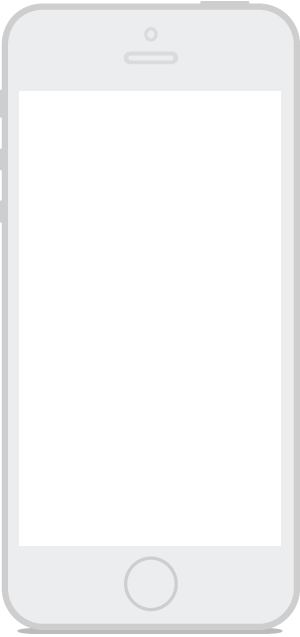
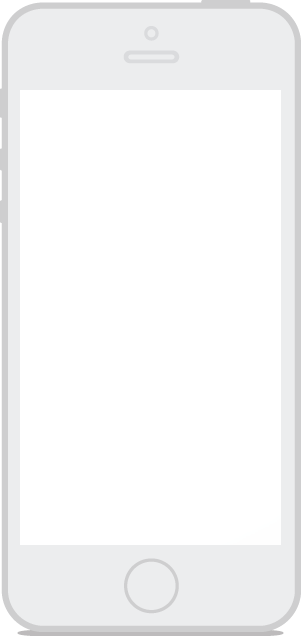
frame and all

Changed region(s): [[0.03, 0.9261, 0.99, 1.0], [0.45, 0.8664, 0.57, 0.8962], [0.99, 0.9261, 1.0, 0.956]]

diff --git a/css/style.less b/css/style.less
@@ -1,3 +1,4 @@
+
 /*IMPORT FONTS*/
 
 @import url(http://fonts.googleapis.com/css?family=Source+Sans+Pro:300,700);
@@ -78,28 +79,13 @@ h3, .h3 {
 	position: absolute;
 	display: block;
 	height: 636px;
-	width: 300px;
+	width: 301px;
 	z-index: 1000;
 	margin-top: -318px;
 	margin-left: -150px;
 	top: 50%;
 	left: 50%;
-	overflow: visible;
 	background: url("/img/frame-iphone-trans.png");
-}
-
-.slides {
-	position: relative;
-	top: 60px;
-	left: 15px;
-	display: block;
-	overflow: visible;
-	ul {
-		li {
-			margin-right: 60px;
-			float: left;
-		}
-	}
 }
 
 /* DESCRIPTION */

diff --git a/css/style.css b/css/style.css
@@ -55,25 +55,13 @@ h3,
   position: absolute;
   display: block;
   height: 636px;
-  width: 300px;
+  width: 301px;
   z-index: 1000;
   margin-top: -318px;
   margin-left: -150px;
   top: 50%;
   left: 50%;
-  overflow: visible;
   background: url("/img/frame-iphone-trans.png");
-}
-.slides {
-  position: relative;
-  top: 60px;
-  left: 15px;
-  display: block;
-  overflow: visible;
-}
-.slides ul li {
-  margin-right: 60px;
-  float: left;
 }
 /* DESCRIPTION */
 .description {

diff --git a/css/impress-demo.css b/css/impress-demo.css
@@ -176,7 +176,7 @@ a:focus {
     height: 455px;
     padding: 40px 60px;
 
-    background-color: white;
+    background: #39414c;
     /*border: 1px solid rgba(0, 0, 0, .3);*/
     /*border-radius: 10px;*/
     /*box-shadow: 0 2px 6px rgba(0, 0, 0, .1);*/
